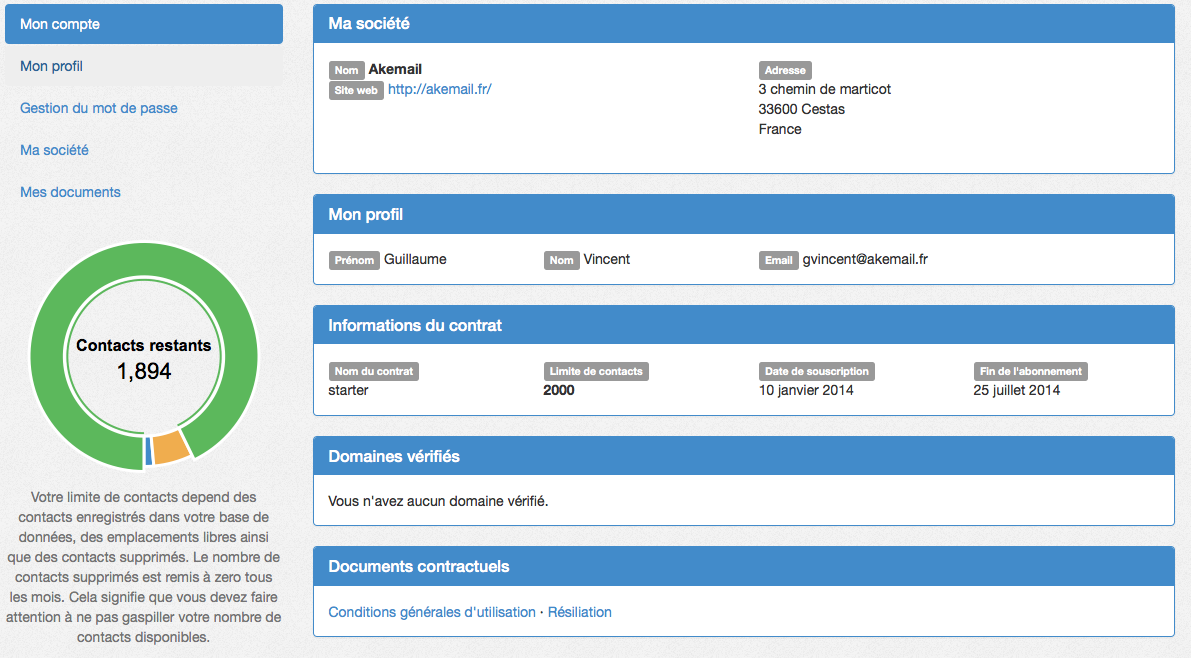
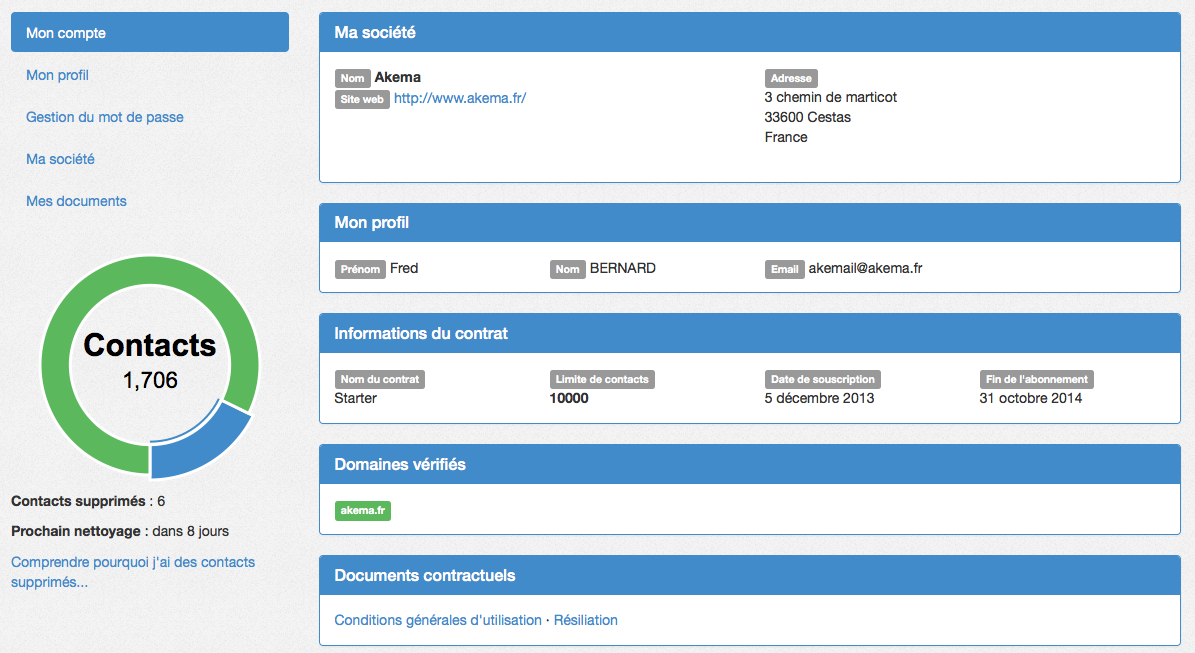
update FAQ, Cathy analyse

diff --git a/docs/template_mailing.rst b/docs/template_mailing.rst
@@ -18,11 +18,11 @@ Qu'est ce qu'un bon template pour un mailing ?
 C'est une question difficile, néanmoins voici quelques éléments de réponse:
 
  * un bon template s'adapte à la taille de l'écran de vos clients. Un email ne doit pas faire la même taille sur un écran de téléphone ou un écran d'ordinateur. On parle ici d'email responsive.
- * un bon template n'est pas constitué que d'une seule image. Beaucoup de client mail, ne charge pas les images. C'est un système anti-spam historique qui est toujours d'actualité aujourd'hui.
+ * un bon template n'est pas constitué que d'une seule image. Beaucoup de clients mails, ne chargent pas les images. C'est un système anti-spam historique qui est toujours d'actualité aujourd'hui.
  * un bon template est personnalisé, ajouter des contacts avec des champs personnalisés, puis personnalisez vos mailings avec (exemple: Bonjour {{ prenom }})
  * un bon template est pertinent. Si beaucoup de vos clients, considèrent comme spam votre mailing, vous allez dégrader votre adresse email. Vous risquez la prochaine fois d'être considéré comme du spam directement.
 
-Personalisation d'un mailing
+Personnalisation d'un mailing
 ----------------------------
 
 Lorsque vous importez vos contacts, vous pouvez spécifier le contenu des entêtes de vos colonnes.
@@ -34,7 +34,7 @@ Un contact, en fonction du nom des entêtes, se voit attribuer un champ personna
 Vous pouvez dans vos emails utiliser ces champs personnalisés pour personnaliser vos emails. Par exemple si vous avez
 un contact avec le champ personnalisé **entreprise** qui correspond à son entreprise.
 
-Vous pouvez dans votre mailing rajouter les informations personnalisées entourées de doubles accolades
+Vous pouvez dans le contenu de votre mailing (fichier html) rajouter les informations personnalisées entourées de doubles accolades
 
 
     Nous remercions {{ entreprise }} pour...
@@ -44,6 +44,22 @@ qui sera remplacé dans l'email par
 
 
     Nous remercions Akemail pour...
+
+**Attention au nom** :
+
+{{ entreprise }}, {{entreprise}} marchent très bien.
+
+Par contre {{ prénom }} ou {{ age du contact }} ne fonctionneront pas.
+Les accents et les espaces dans le champ sont interdit (cf :doc:`create_contact`)
+
+Si une information pour un champ personnalisé d'un contact n'est pas présente, rien n'est ajouté.
+
+Tester la Personnalisation
+--------------------------
+
+Pour voir si la personnalisation fonctionne, vous pouvez créer un contact test (cf :doc:`create_contact`), lui rajouter des champs personnalisés et
+tester l'envoi de test (:doc:`create_mailing`) à l'adresse email de votre contact.
+
 
 
 Lien de désinscription

diff --git a/docs/create_mailing.rst b/docs/create_mailing.rst
@@ -25,11 +25,11 @@ intitulé.
 
 Quand vous créer un mailing, vous avez besoin de renseigner un email d'envoi. Il correspond à l'email "expediteur".
 
-**/!\\ Attention un bon email d'envoi, doit correspondre à un email vous appartenant, et dont le nom de domaine n'enfreint pas la norme de vérification** `SPF`_
+**/!\\ Attention vous devez utiliser un email d'entreprise dont le nom de domaine vous appartient.**
 
 Exemple:
 
- * **administrateur@ebay.com** ne fonctionnera pas, nos serveurs n'ont pas le droit d'envoyer ce genre de mailing.
+ * **administrateur@ebay.com** ne fonctionnera pas, nos serveurs n'ont pas le droit d'envoyer ce genre de mailing (vous enfreignez la norme `SPF`_).
  * **contact@gmail.com** fonctionnera mal, il n'est pas recommandé d'envoyer un email depuis un autre serveur que ceux de gmail. Votre mailing sera très souvent considéré comme un spam.
 
 Préconisez des emails d'envoi comme **contact@monentreprise.com** ou **no-reply@monentreprise.com**
@@ -58,6 +58,8 @@ donc pas possible d'envoyer un mauvais mailing à toute votre base de contact.
 
 L'email de test vous convient ? Vous pouvez passer à l'étape 3 en cliquant sur le bouton **sauvegardez et choissez vos destinataires**
 
+Notez que vos emails de tests sont comptabilisés dans le nombre de destinataires de votre mailing.
+
 Choisissez vos destinataires et démarrez
 ----------------------------------------
 C'est la dernière étape avant l'envoi d'un mailing:
@@ -68,8 +70,11 @@ C'est la dernière étape avant l'envoi d'un mailing:
 Durant cette étape vous devez selectionner une liste précédement créée. Si vous n'avez pas renseigné de date et que vous
 démarrez votre mailing, le mailing partira tout de suite.
 
-Vous pouvez différer l'envoi d'un mailing à plus tard, et spécifier une date de fin. N'envoyer pas votre offre promotionnelle
+Vous pouvez **différer l'envoi d'un mailing à plus tard**, et spécifier une date de fin. N'envoyez pas votre offre promotionnelle
 à vos clients pour un salon, une fois la date du salon dépassée.
+Il est important de savoir qu'Akemail retente d'envoyer des emails en erreur temporaire.
+La boite mail de votre destinataire est peut être pleine.
+Akemail peut retenter pendant un mois d'envoyer un mail en erreur temporaire.
 
 Vous pouvez sauvegarder ce mailing, pour l'éditer par la suite.
 Un aperçu est disponible, il représente l'email vu par vos clients dans leur client mail (outlook, gmail)

diff --git a/docs/contact_limit.rst b/docs/contact_limit.rst
@@ -4,20 +4,13 @@
 Limite des contacts
 ===================
 
-Contrairement à nos concurrents, nous préférons limiter le nombre de contacts, plutôt que de vous faire payer à
-l'email. Et ça pour deux raisons :
-
- *  envoyer un email ne nous coûte presque rien
- *  le spam devient couteux, donc on en a moins, ce qui améliore la délivrabilité des emails des bons clients
-
-
 Chaque mois, vous avez le droit à un certain nombre de contact différents. Un contact est identifié de manière unique
 par son email. Si vous avez le droit à 2000 contacts durant le mois, alors vous pouvez importer dans votre base de
 données de contacts, 2000 emails différents.
 
 Pour éviter les abus, vous ne pouvez pas:
 
- *  remplir votre base de contacts, envoyer un mailing, vider votre base de contacts, remplir de nouveau votre base avec des nouveaux contacts et faire un nouveau mailing.
+ *  remplir votre base de contacts, faire des mailings, tout supprimer et renvoyer un mailing ensuite avec de nouveaux contacts.
 
  *  importer plus de contacts que vous n'avez d'emplacements libres
 
@@ -27,13 +20,15 @@ J'ai un plan de 2000 contacts (offre starter).
 J'ai un fichier CSV avec 1500 contacts. Je fais l'import de ces 1500 contacts. Il me reste donc 500 contacts
 disponibles (2000 - 1500).
 
-Maintenant je supprime 500 contacts. J'ai donc 1000 contacts dans ma base de contacts, mais j'ai toujours 500 contacts
-disponibles durant tout le mois en cours.
+Maintenant je supprime 500 contacts. J'ai donc 1000 contacts dans ma base de contacts.
+Néanmoins durant le mois en cours, il ne me reste que 500 emplacements de libre.
+
 Ce n'est qu'à partir du début du mois prochain, que mon nombre de contacts disponibles repassera à 1000.
 **Mon quota est remis à zéro au début de chaque mois**.
 
-Un contact supprimé, puis réimporté durant un mois ne compte que pour un contact.
+Depuis la page **mon compte**, vous pouvez voir le nombre de contacts supprimés et quand le nettoyage sera effectué:
 
+.. figure::  _static/images/limit_contacts.png
+   :align:   center
 
-Pour avoir un aperçu complet de la volumétrie de votre base de contacts, vous pouvez vous rendre dans l'espace
-**mon compte**
+**Un contact supprimé, puis réimporté durant un mois ne compte que pour un contact.**

diff --git a/docs/import_contacts.rst b/docs/import_contacts.rst
@@ -25,7 +25,7 @@ L'import de contact se fait en trois étapes:
 
 Un fichier **CSV** (Comma-separated values) est un format informatique ouvert représentant des données tabulaires sous
 forme de valeurs séparées par des virgules.
-Excel, libre Office, Google Document, tous permettent d'exporter vos données au format CSV.
+Excel, Libre Office, Google Document, etc... Tous ces logiciels permettent d'exporter vos données au format CSV.
 
 Les en-têtes correspondent aux noms des colonnes de votre fichier **CSV**. Ils deviendront des champs personnalisés
 pour chaque contact (comme décrits plus haut).
@@ -39,10 +39,10 @@ fichier **CSV** n'est pas valide. Arrétez vous là, modifier votre fichier **CS
 Terminez votre import en selectionnant la destination de vos contacts puis cliquez sur le bouton
 **Importer vos contacts**
 
-Import en cours/terminés
-------------------------
+Imports en cours/terminés
+-------------------------
 
-Un import de contacts est une tache qui peut prendre du temps. Cette tache est effectuée en tache de fond, vous pouvez
+Un import de contacts est une tache qui peut prendre du temps. Cette tâche est effectuée en tâche de fond, vous pouvez
 pendant un import utiliser Akemail.
 
 La liste des imports que vous avez effectués est disponible dans Akemail depuis le sous-menu dans la page **contacts**
@@ -64,7 +64,7 @@ précise pour chacune des erreurs la ligne à laquelle l'erreur s'est produite.
  *  Un email invalide n'est pas inséré
  *  Une ligne sans email est ignorée (comme l'entête de votre fichier si elle se trouve au debut de votre fichier **CSV**)
 
-Un import de contacts, peut rester à l'état PRÊT quelques heures. Il correspond à un import de contact pour lequel vous
+Un import de contacts, peut rester à l'état PRÊT quelques heures. Il correspond à un import de contacts pour lequel vous
 avez importé un fichier puis abandonné l'opération.
 
 .. _Akemail: https://akemail.fr/

diff --git a/docs/create_contact.rst b/docs/create_contact.rst
@@ -26,9 +26,42 @@ avec un email jean@akemail.fr et je vais l'ajouter à ma liste Akema (précédem
 
 J'ai la possibilité de rajouter des champs personnalisés. Un champ personnalisé correspond à une information que vous
 jugez pertinente. Quelle quelle soit !
-Vous pouvez par exemple rajouter un champ entreprise, ou une variable estMajeur :
+Vous pouvez par exemple rajouter un champ "entreprise", ou une variable "estMajeur" :
 
 .. figure::  _static/images/custom_fields.png
    :align:   center
 
 Pour que les informations soit prises en compte, vous pouvez cliquer sur le bouton sauvegarder.
+
+
+Champs personnalisés
+--------------------
+
+Un champ personnalisé est un champ associé à votre contact. Ce champ est une information que vous pouvez rajouter.
+Cette information comporte trois information: Le **nom** du champ personnalisé, son **type** et sa **valeur**.
+
+Exemple:
+
+Je veux rajouter le champ adresse à mon contact :
+
+ * Nom du champ: adresse
+ * Type: texte (correspond à une chaine de caractère)
+ * Valeur: 3 chemin de marticot 33610 Cestas
+
+
+Je veux rajouter l'age du contact:
+
+ * Nom du champ: age
+ * Type: nombre (correspond à un nombre)
+ * Valeur: 20
+
+
+Je veux rajouter l'information: le contact a payé sa cotisation:
+
+ * Nom du champ: apaye*
+ * Type: Booléen (correspond à une valeur vraie ou fausse)
+ * Valeur: Vrai
+
+***Attention le nom d'un champ ne doit pas comporter d'espace, ni d'accent.**
+
+

diff --git a/docs/faq.rst b/docs/faq.rst
@@ -4,8 +4,8 @@
 Questions fréquentes
 ====================
 
-Pourquoi rajoutez vous automatiquement un lien de désinscription à la fin de mon mailing ?
-------------------------------------------------------------------------------------------
+Pourquoi rajoutez vous automatiquement un lien de désinscription à la fin de mon mailing?
+-----------------------------------------------------------------------------------------
 
 Le lien de désinscription permet à votre mailing de ne pas être considéré comme un spam. La plus part des fournisseurs
 d'adresse email (Gmail, Yahoo, Outlook, AOL) considèrent souvent un mailing comme spam s'il ne possède pas de lien de désinscription.
@@ -33,12 +33,14 @@ Vous voulez plus d'informations ? Envoyez nous un email à contact@akemail.fr
 
 Comment puis-je augmenter ma délivrabilité ?
 --------------------------------------------
+Nous donnons quelques conseils sur la page: :doc:`template_mailing`.
+
 Si vous utilisez la protection `SPF`_ pour protéger vos mails d'entreprise, vous pouvez rajouter les serveurs d'email d'akemail dans votre SPF:
 
-**include:akemail.fr**
+    **include:akemail.fr**
 
 Votre enregistrement dans vos DNS doit ressembler à :
 
-**v=spf1 mx include:mon-entreprise.com include:akemail.fr ~all**
+    v=spf1 mx include:mon-entreprise.com **include:akemail.fr** ~all
 
 .. _SPF: http://fr.wikipedia.org/wiki/Sender_Policy_Framework

diff --git a/docs/akemail_start.rst b/docs/akemail_start.rst
@@ -14,10 +14,11 @@ Lors de votre première connexion, vous arrivez sur le dashboard, centre névral
 .. figure::  _static/images/dashboard.png
    :align:   center
 
-Plusieurs panneaux de contrôles sont disponibles, les racourcis (ou **bookmarks**) qui regroupe les boutons des
-fonctionnalités les plus utilisées dans Akemail. Le panneau **statistiques des contacts**, qui vous permet d'avoir un
-aperçu de la volumétrie de votre base de contact. Le dernier panneau concerne un panneau d'information qui concerne
-les **dernières actualités** d'Akemail que vous êtes en train d'utiliser.
+Plusieurs panneaux de contrôles sont disponibles:
+
+ * les racourcis (ou **bookmarks**) qui regroupent les boutons des fonctionnalités les plus utilisées dans Akemail.
+ * Le panneau **statistiques des contacts**, qui vous permet d'avoir un aperçu de la volumétrie de votre base de contacts.
+ * Le dernier panneau concerne un panneau d'information qui concerne les **dernières actualités** d'Akemail que vous êtes en train d'utiliser.
 
 Akemail est un logiciel activement développé, et une nouvelle version est disponible toutes les 2 à 4 semaines.
 Ce panneau vous montre le numéro de version, et les dernières améliorations et corrections effectuées depuis la dernière

diff --git a/docs/handle_information.rst b/docs/handle_information.rst
@@ -18,7 +18,7 @@ vous accédez à l'espace **mon compte**
    :align:   center
 
 L'espace mon compte vous permet de gérer le changement de votre mot de passe.
-/!\ Il est conseillé de changer son **mot de passe** dès la première utilisation d'Akemail.
+/!\\ Il est conseillé de changer son **mot de passe** dès la première utilisation d'Akemail.
 
 Il vous permet de modifier les différentes informations concernant votre société. Vous pouvez voir l'ensemble de vos
 documents, comme vos **factures**, vos rapports mensuels d'activité, etc...

diff --git a/docs/support.rst b/docs/support.rst
@@ -8,10 +8,10 @@ Support
 rapidement possible.
 
 Si vous souhaitez obtenir un support sur un problème que vous rencontrez, vous pouvez nous envoyer un email à
-**support@akemail.fr**
+**support@akemail.fr**.
 
 Vous souhaitez demander une nouvelle fonctionnalité, faire une remarque sur notre produit, n'hésitez pas, envoyez nous un email
-à **contact@akemail.fr**
+à **contact@akemail.fr**.
 
 
 .. _Akemail: https://akemail.fr/
